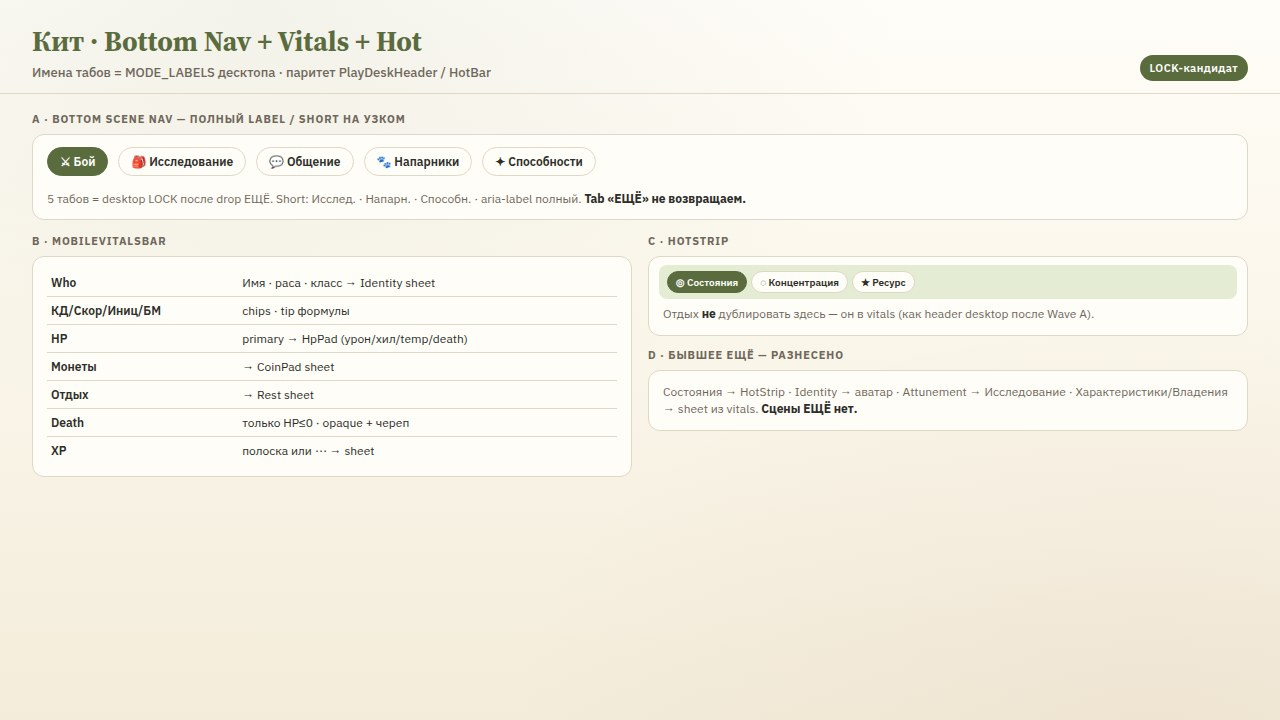
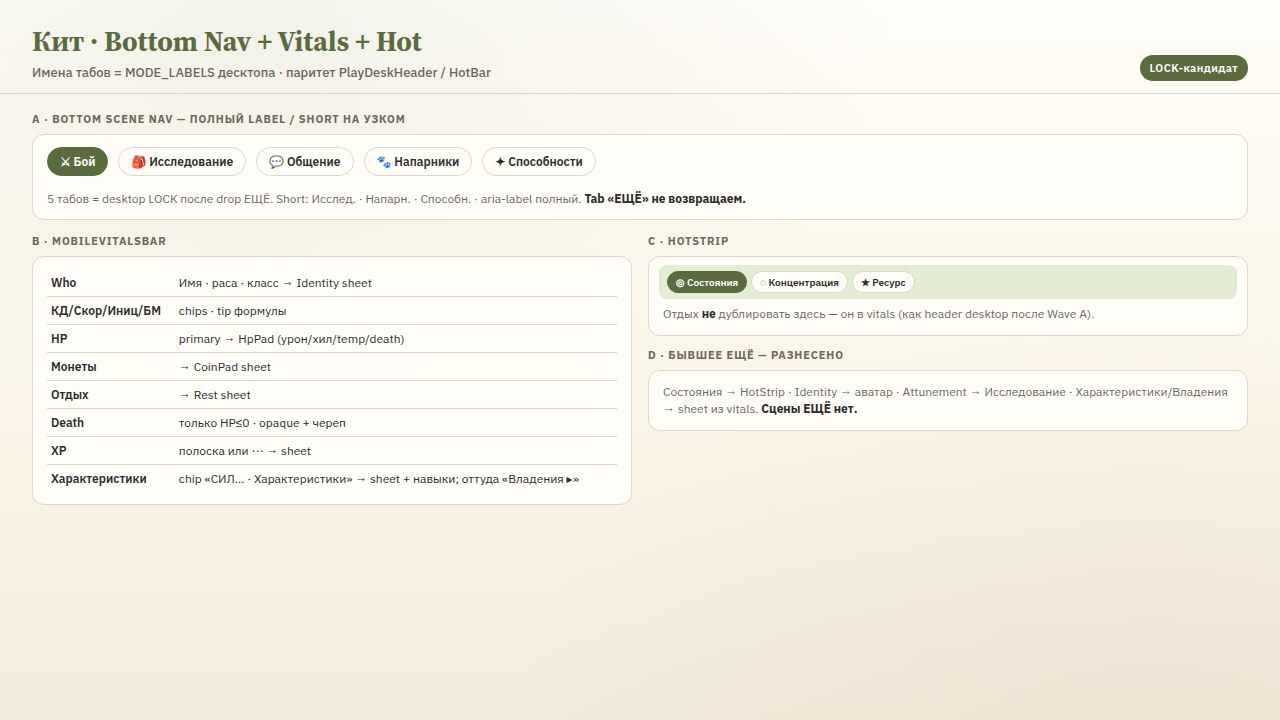
docs(mobile-kit): board for abilities + ownership entry from vitals
Clarify: Characteristics/skills are a vitals chip → bottom sheet, not the
Способности tab; Ownership opens from Владения ▸ inside that sheet.

Changed region(s): [[0.0312, 0.5806, 0.4688, 0.6722], [0.125, 0.4278, 0.375, 0.55], [0.125, 0.3667, 0.3438, 0.3972]]

diff --git a/docs/ui-kit-mobile/boards/_render/boards.html b/docs/ui-kit-mobile/boards/_render/boards.html
@@ -368,6 +368,9 @@
             <div class="tool" title="Монеты">◉</div>
             <div class="tool" title="Отдых">♨</div>
           </div>
+          <div style="margin-top:6px;display:flex;gap:4px">
+            <span class="pill on" style="flex:1;justify-content:center;padding:5px 6px;font-size:10px;border-radius:8px">СИЛ… · Характеристики</span>
+          </div>
         </div>
         <div class="hot">
           <chip class="on">◎ Состояния</chip>
@@ -403,11 +406,12 @@
           <li style="margin-bottom:8px"><strong>HP</strong> — крупнейший tap; pad = bottom sheet.</li>
           <li style="margin-bottom:8px"><strong>Монеты / Отдых</strong> — в vitals (паритет header).</li>
           <li style="margin-bottom:8px"><strong>HotStrip</strong> — состояния · концентрация · пипы ресурсов.</li>
-          <li><strong>Default tab</strong> при открытии листа — Бой (time-to-attack).</li>
+          <li style="margin-bottom:8px"><strong>Default tab</strong> при открытии листа — Бой (time-to-attack).</li>
+          <li><strong>Характеристики</strong> — chip в vitals → sheet (не tab «Способности»).</li>
         </ol>
       </div>
       <div class="callout">
-        <strong>Не делать:</strong> left drawer владений · center-modal pads · возврат select «Панель» · прятать Rest/Conditions.
+        <strong>Не делать:</strong> left drawer владений · center-modal pads · возврат select «Панель» · путать tab «Способности» (черты/ресурсы) с характеристиками.
       </div>
       <div style="margin-top:14px" class="card">
         <p class="sec-label">Z-слои</p>
@@ -447,7 +451,8 @@
             <tr style="border-bottom:1px solid var(--line)"><td style="padding:6px 4px;font-weight:600">Монеты</td><td style="padding:6px 4px">→ CoinPad sheet</td></tr>
             <tr style="border-bottom:1px solid var(--line)"><td style="padding:6px 4px;font-weight:600">Отдых</td><td style="padding:6px 4px">→ Rest sheet</td></tr>
             <tr style="border-bottom:1px solid var(--line)"><td style="padding:6px 4px;font-weight:600">Death</td><td style="padding:6px 4px">только HP≤0 · opaque + череп</td></tr>
-            <tr><td style="padding:6px 4px;font-weight:600">XP</td><td style="padding:6px 4px">полоска или ⋯ → sheet</td></tr>
+            <tr style="border-bottom:1px solid var(--line)"><td style="padding:6px 4px;font-weight:600">XP</td><td style="padding:6px 4px">полоска или ⋯ → sheet</td></tr>
+            <tr><td style="padding:6px 4px;font-weight:600">Характеристики</td><td style="padding:6px 4px">chip «СИЛ… · Характеристики» → sheet + навыки; оттуда «Владения ▸»</td></tr>
           </table>
         </div>
       </div>
@@ -592,6 +597,110 @@
         <div class="line-item"><span>Владения ▸</span><span>sheet</span></div>
       </div>
       <div class="bot"><span>Бой</span><span>Исслед.</span><span>Общ.</span><span>Нап.</span><span>Спос.</span></div>
+    </div>
+  </div>
+</section>
+
+<!-- ========== ABILITIES + OWNERSHIP ========== -->
+<section class="board" id="abilities" data-file="dvarf-mobile-kit-abilities.jpg">
+  <div class="hdr">
+    <div>
+      <h1>Кит · Характеристики + Владения</h1>
+      <p class="sub">Не tab Bottom Nav · вход из vitals · навыки внутри · Владения вторым sheet</p>
+    </div>
+    <div class="badge">RAIL → SHEET</div>
+  </div>
+  <div class="body" style="display:flex;gap:18px;align-items:flex-start">
+    <!-- Step 1: entry -->
+    <div style="width:220px;flex-shrink:0">
+      <p class="sec-label">1 · Где нажать</p>
+      <div class="phone" style="width:220px;height:420px;border-radius:28px">
+        <div class="phone-notch"><span style="width:70px"></span></div>
+        <div class="phone-body">
+          <div class="vitals" style="padding:8px">
+            <div class="who">
+              <div class="avatar" style="width:30px;height:30px;font-size:12px">Т</div>
+              <div>
+                <div class="who-name" style="font-size:14px">Торин</div>
+                <div class="who-meta">аватар → Identity</div>
+              </div>
+            </div>
+            <div class="vital-row">
+              <div class="vital"><div class="v" style="font-size:12px">16</div><div class="l">КД</div></div>
+              <div class="vital"><div class="v" style="font-size:12px">25</div><div class="l">Скор.</div></div>
+              <div class="vital"><div class="v" style="font-size:12px">+2</div><div class="l">Иниц.</div></div>
+              <div class="vital"><div class="v" style="font-size:12px">+3</div><div class="l">БМ</div></div>
+            </div>
+            <div style="margin-top:4px;border:2px solid var(--accent);border-radius:10px;padding:8px;background:var(--accent-soft);text-align:center">
+              <div style="font-size:11px;font-weight:700;color:var(--accent)">СИЛ 16 · ЛОВ 12 · …</div>
+              <div style="font-size:10px;font-weight:600;margin-top:2px">Характеристики ▸</div>
+            </div>
+          </div>
+          <div class="scene" style="opacity:.45;font-size:11px;padding:8px">сцена Бой…</div>
+          <div class="bnav">
+            <div class="tab on"><div class="ico" style="font-size:11px">⚔</div>Бой</div>
+            <div class="tab"><div class="ico" style="font-size:11px">🎒</div>Исслед.</div>
+            <div class="tab"><div class="ico" style="font-size:11px">💬</div>Общ.</div>
+            <div class="tab"><div class="ico" style="font-size:11px">🐾</div>Нап.</div>
+            <div class="tab"><div class="ico" style="font-size:11px">✦</div>Спос.</div>
+          </div>
+        </div>
+      </div>
+      <p class="note" style="margin:8px 0 0"><strong>Важно:</strong> tab «Способности» = черты/ярость. Характеристики — отдельный chip в vitals.</p>
+    </div>
+
+    <!-- Step 2: abilities sheet -->
+    <div style="flex:1.1;min-width:0">
+      <p class="sec-label">2 · Sheet «Характеристики» (+ навыки)</p>
+      <div class="sheet-demo" style="width:100%;border-radius:16px;min-height:420px">
+        <div class="grab"></div>
+        <h3>Характеристики</h3>
+        <p class="note" style="margin:0 0 8px">Variant A · identity-цвета · tap по названию сворачивает навыки</p>
+        <div style="display:flex;flex-direction:column;gap:6px">
+          <div class="card" style="padding:8px 10px;border-color:#9a4a32;background:#f3e0d6">
+            <div style="display:flex;justify-content:space-between;align-items:baseline">
+              <strong style="font-family:var(--font-display);color:#9a4a32">Сила</strong>
+              <span style="font-weight:700;font-size:18px">16 <span style="font-size:12px;color:var(--muted)">(+3)</span></span>
+            </div>
+            <div style="margin-top:6px;font-size:12px">
+              <div style="display:flex;justify-content:space-between;padding:3px 0;border-top:1px solid #e0c4b4"><span>Атлетика</span><strong>+6</strong></div>
+              <div style="display:flex;justify-content:space-between;padding:3px 0;border-top:1px solid #e0c4b4"><span>Спас. СИЛ</span><strong>+3</strong></div>
+            </div>
+          </div>
+          <div class="card" style="padding:8px 10px;border-color:#3d6b5a;background:#dcece4">
+            <div style="display:flex;justify-content:space-between"><strong style="font-family:var(--font-display);color:#3d6b5a">Ловкость</strong><span style="font-weight:700">12 (+1)</span></div>
+            <div class="note" style="margin:4px 0 0">навыки свёрнуты · tap раскрыть</div>
+          </div>
+          <div class="card" style="padding:8px 10px;border-color:#8a6a2f;background:#f1e6c8">
+            <div style="display:flex;justify-content:space-between"><strong style="font-family:var(--font-display);color:#8a6a2f">Телосложение</strong><span style="font-weight:700">15 (+2)</span></div>
+          </div>
+          <div class="note" style="text-align:center">ИНТ · МДР · ХАР — ниже в scroll</div>
+        </div>
+        <span class="btn btn-primary" style="width:100%;margin-top:12px">Владения ▸</span>
+      </div>
+    </div>
+
+    <!-- Step 3: ownership -->
+    <div style="flex:1;min-width:0">
+      <p class="sec-label">3 · Sheet «Владения»</p>
+      <div class="sheet-demo" style="width:100%;border-radius:16px;min-height:420px">
+        <div class="grab"></div>
+        <h3>Владения</h3>
+        <p class="note" style="margin:0 0 8px">Паритет desktop Ownership drawer · не left drawer · не ЕЩЁ</p>
+        <div class="card" style="margin-bottom:8px;padding:8px">
+          <div class="tag">Скорости / ТЗ</div>
+          <div class="note" style="margin:0">Ходьба 25 · лаз. — · плав. — · полёт — · ТЗ 14</div>
+        </div>
+        <div class="card" style="margin-bottom:8px;padding:8px">
+          <div class="tag">Снаряжение</div>
+          <div class="note" style="margin:0">Доспех ср. · щит · простое/воинское оружие</div>
+        </div>
+        <div class="card" style="padding:8px">
+          <div class="tag">Языки / инструменты</div>
+          <div class="note" style="margin:0">Общий · Дварфский · кузнечные инструменты</div>
+        </div>
+        <span class="btn btn-ghost" style="width:100%;margin-top:12px">← к характеристикам</span>
+      </div>
     </div>
   </div>
 </section>

diff --git a/docs/ui-kit-mobile/boards/README.md b/docs/ui-kit-mobile/boards/README.md
@@ -13,6 +13,7 @@
 | `dvarf-mobile-kit-nav-vitals.jpg` | Bottom Nav (имена desktop) + MobileVitalsBar + HotStrip |
 | `dvarf-mobile-kit-sheets.jpg` | Bottom sheets: HP / Rest / Conditions / Cast |
 | `dvarf-mobile-kit-scenes.jpg` | Сцены Бой · Исследование · Общение · … |
+| `dvarf-mobile-kit-abilities.jpg` | Вход из vitals → sheet Характеристики (+навыки) → Владения |
 | `dvarf-mobile-kit-create-lobby.jpg` | Create StepRail + Lobby Hero на телефоне |
 
 Табы: **Бой · Исследование · Общение · Напарники · Способности** (desktop после drop ЕЩЁ).  

diff --git a/docs/ui-kit-mobile/VIEW.md b/docs/ui-kit-mobile/VIEW.md
@@ -16,6 +16,7 @@
 | [`nav-vitals`](boards/dvarf-mobile-kit-nav-vitals.jpg) | 5 табов · Vitals · HotStrip · бывшее ЕЩЁ |
 | [`sheets`](boards/dvarf-mobile-kit-sheets.jpg) | Bottom sheets: HP / Rest / Conditions / Cast |
 | [`scenes`](boards/dvarf-mobile-kit-scenes.jpg) | 5 сцен + sheet Характеристики |
+| [`abilities`](boards/dvarf-mobile-kit-abilities.jpg) | vitals → Характеристики (+навыки) → Владения |
 | [`create-lobby`](boards/dvarf-mobile-kit-create-lobby.jpg) | Create StepRail + Lobby Hero |
 
 Код мобилки — **только после ok** на эти картинки.
